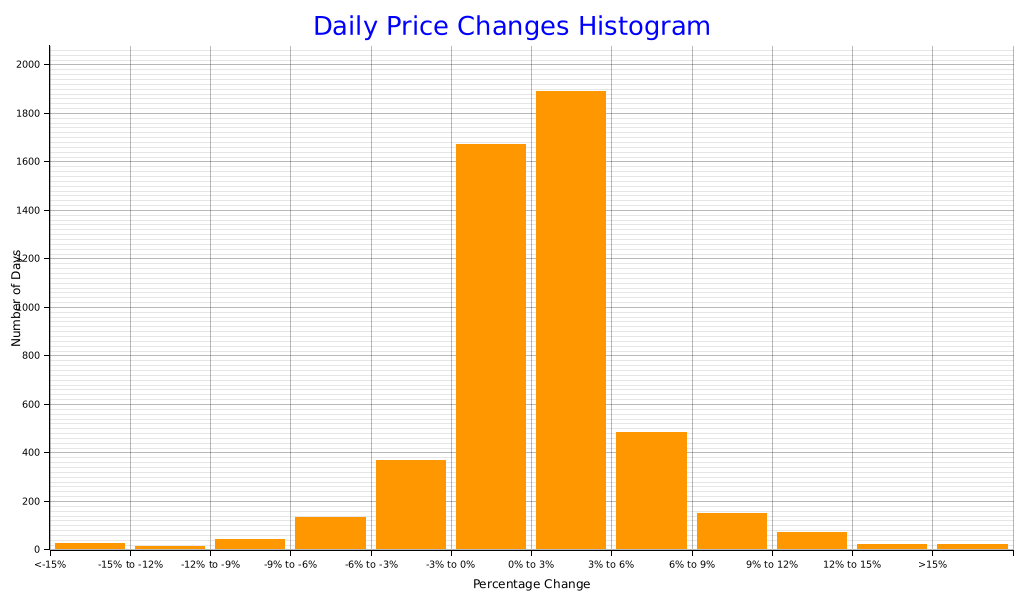
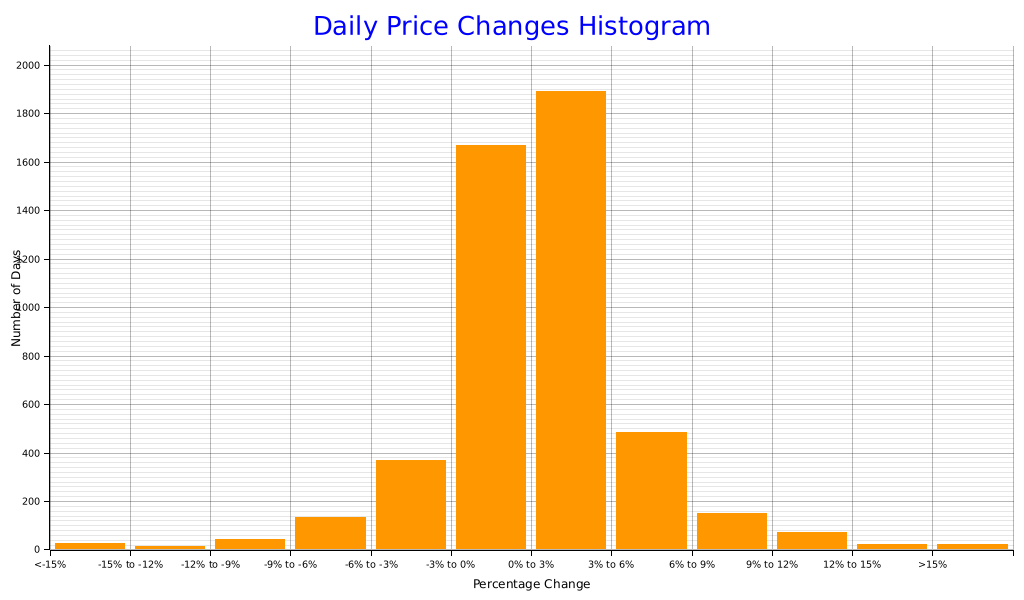
deploy: 32c38bfc33973f71076a7465fb8cd65e6d188ef2

diff --git a/index.html b/index.html
@@ -168,11 +168,11 @@
         </tr>
         <tr>
           <td>-3% to 0%</td>
-          <td>1671</td>
+          <td>1670</td>
         </tr>
         <tr>
           <td>0% to 3%</td>
-          <td>1889</td>
+          <td>1890</td>
         </tr>
         <tr>
           <td>3% to 6%</td>
@@ -223,14 +223,14 @@
           <tr>
             <td>2025-05-06</td>
             <td>94,746.03</td>
-            <td>95,122.72</td>
+            <td>95,412.19</td>
             <td>93,438.14</td>
-            <td>94,710.94</td>
-            <td class='wma-column'>46,670.80</td>
-            <td>43.18 (0.09 %)</td>
-            <td>60,475.75 (176.6 %)</td>
-            <td>1,684.57 (1.7 %)</td>
-            <td>-37.10 (0.0 %)</td>
+            <td>95,412.19</td>
+            <td class='wma-column'>46,671.32</td>
+            <td>43.69 (0.09 %)</td>
+            <td>61,177.00 (178.6 %)</td>
+            <td>1,974.04 (2.0 %)</td>
+            <td>664.14 (0.7 %)</td>
           </tr>
           <tr>
             <td>2025-05-05</td>
